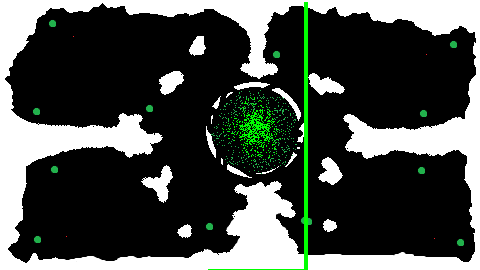
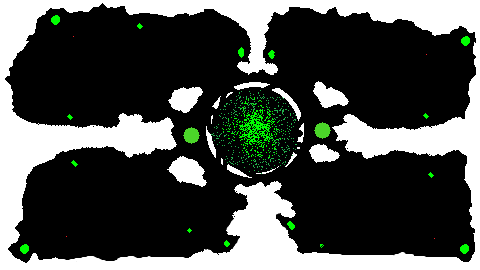
map2 finished and background changed.

diff --git a/src/main.cpp b/src/main.cpp
@@ -48,7 +48,7 @@ int main()
             // Update
             scene->update();
             // Render
-            window.clear(sf::Color(100, 100, 100));
+            window.clear(sf::Color(75, 75, 75));
             scene->render();
 
             if (clock.getElapsedTime().asMilliseconds() < 5000)
